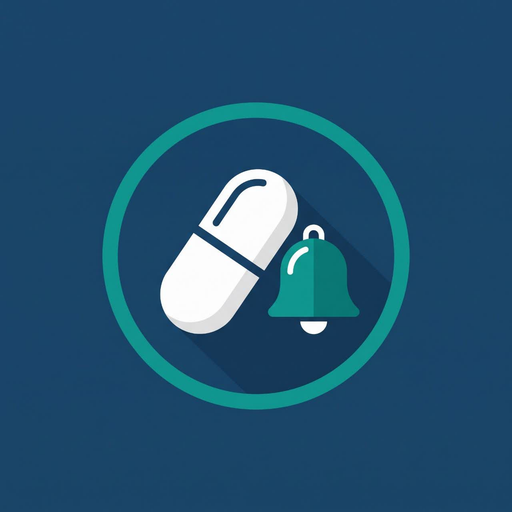
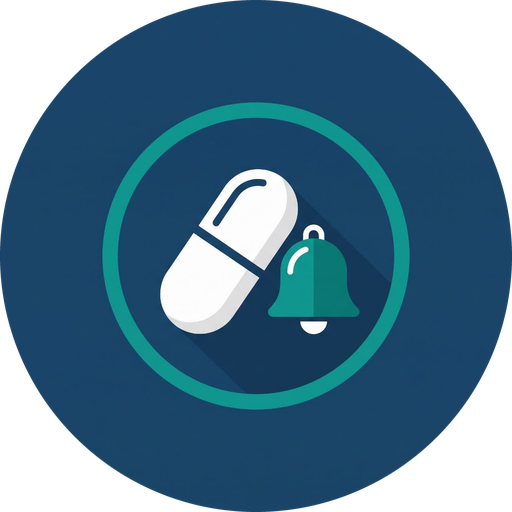
Add files via upload

diff --git a/android/assets/index.html b/android/assets/index.html
@@ -76,7 +76,7 @@ tr.s-taken td{background:#F2FBF5}tr.s-snoozed td{background:#FEFBE8}tr.s-skipped
 html,body{background:#EEF3F8}
 body{background:linear-gradient(180deg,#E3EEF5 0,#EEF3F8 260px);padding-bottom:calc(100px + env(safe-area-inset-bottom,0px))}
 header.top{background:linear-gradient(135deg,#153A5B 0%,#0F5C7A 65%,#008975 100%);border-radius:0 0 28px 28px;padding-bottom:18px;box-shadow:0 10px 26px rgba(21,58,91,.28)}
-header.top img{width:48px;height:48px;border-radius:15px;flex:none;box-shadow:0 0 0 2px rgba(255,255,255,.28)}
+header.top img{width:48px;height:48px;border-radius:50%;flex:none;box-shadow:0 0 0 2px rgba(255,255,255,.28)}
 header.top small{color:#CFF3EB}
 .chip{background:rgba(255,255,255,.16);border:1px solid rgba(255,255,255,.32);backdrop-filter:blur(6px)}
 main{padding:16px}
@@ -99,7 +99,7 @@ input:focus,select:focus,textarea:focus{border-color:var(--teal);box-shadow:0 0 
 .tabs button.on{background:#E1F5F0;border-top-color:transparent}
 .toast{bottom:calc(108px + env(safe-area-inset-bottom,0px));border-radius:16px;box-shadow:0 8px 24px rgba(0,0,0,.25)}
 .auth{background:linear-gradient(160deg,#153A5B 0%,#0F5C7A 70%,#008975 130%)}
-.auth .logo img{width:108px;height:108px;border-radius:30px;box-shadow:0 14px 34px rgba(0,0,0,.35)}
+.auth .logo img{width:108px;height:108px;border-radius:50%;box-shadow:0 14px 34px rgba(0,0,0,.35)}
 .auth .card{border-radius:26px;box-shadow:0 16px 40px rgba(0,0,0,.25)}
 .seg{border-radius:14px}.seg button.on{box-shadow:0 2px 8px rgba(0,0,0,.14)}
 @media print{header.top,.tabs,.noprint{display:none!important}body{background:#fff}.card{box-shadow:none;border:1px solid #ccc}}
@@ -110,12 +110,12 @@ input:focus,select:focus,textarea:focus{border-color:var(--teal);box-shadow:0 0 
 <div id="root"></div>
 <script>
 "use strict";
-const DRUGS = [{"group": "chronic", "name_fa": "متفورمین", "name_en": "Metformin", "atc": "A10BA02", "category": "کنترل قند خون (دیابت نوع ۲)", "dose": "۵۰۰ میلیگرم", "meal_relation": "همراه با غذا", "times": "08:00,20:00", "duration_days": 30}, {"group": "chronic", "name_fa": "گلیبنکلامید", "name_en": "Glibenclamide", "atc": "A10BB01", "category": "کنترل قند خون (دیابت نوع ۲)", "dose": "۵ میلیگرم", "meal_relation": "قبل از ناهار / شام", "times": "08:00", "duration_days": 30}, {"group": "chronic", "name_fa": "سیتاگلیپتین", "name_en": "Sitagliptin", "atc": "A10BH01", "category": "کنترل قند خون (دیابت نوع ۲)", "dose": "۵۰ میلیگرم", "meal_relation": "همراه با غذا", "times": "08:00", "duration_days": 30}, {"group": "chronic", "name_fa": "امپاگلیفلوزین", "name_en": "Empagliflozin", "atc": "A10BK03", "category": "کنترل قند خون (دیابت نوع ۲)", "dose": "۱۰ میلیگرم", "meal_relation": "همراه با غذا", "times": "08:00", "duration_days": 30}, {"group": "chronic", "name_fa": "لوزارتان", "name_en": "Losartan", "atc": "C09CA01", "category": "کنترل فشار خون", "dose": "۲۵ میلیگرم", "meal_relation": "بدون شرط خاص / موضعی", "times": "08:00", "duration_days": 30}, {"group": "chronic", "name_fa": "والسارتان", "name_en": "Valsartan", "atc": "C09CA03", "category": "کنترل فشار خون", "dose": "۸۰ میلیگرم", "meal_relation": "بدون شرط خاص / موضعی", "times": "08:00", "duration_days": 30}, {"group": "chronic", "name_fa": "آملودیپین", "name_en": "Amlodipine", "atc": "C08CA01", "category": "کنترل فشار خون", "dose": "۵ میلیگرم", "meal_relation": "بدون شرط خاص / موضعی", "times": "08:00", "duration_days": 30}, {"group": "chronic", "name_fa": "متوپرولول", "name_en": "Metoprolol", "atc": "C07AB02", "category": "کنترل فشار خون و ضربان قلب", "dose": "۵۰ میلیگرم", "meal_relation": "همراه با غذا", "times": "08:00,20:00", "duration_days": 30}, {"group": "chronic", "name_fa": "کاپتوپریل", "name_en": "Captopril", "atc": "C09AA01", "category": "کنترل فشار خون", "dose": "۲۵ میلیگرم", "meal_relation": "قبل از ناهار / شام", "times": "08:00,20:00", "duration_days": 30}, {"group": "chronic", "name_fa": "آتورواستاتین", "name_en": "Atorvastatin", "atc": "C10AA05", "category": "کنترل چربی خون (کلسترول)", "dose": "۲۰ میلیگرم", "meal_relation": "قبل از خواب شبانه", "times": "22:00", "duration_days": 30}, {"group": "chronic", "name_fa": "رزوواستاتین", "name_en": "Rosuvastatin", "atc": "C10AA07", "category": "کنترل چربی خون (کلسترول)", "dose": "۱۰ میلیگرم", "meal_relation": "قبل از خواب شبانه", "times": "22:00", "duration_days": 30}, {"group": "chronic", "name_fa": "آسپرین ۸۰", "name_en": "Aspirin 80 (ASA)", "atc": "B01AC06", "category": "پیشگیری قلبی-عروقی", "dose": "۸۰ میلیگرم", "meal_relation": "بعد از غذا", "times": "08:00", "duration_days": 30}, {"group": "chronic", "name_fa": "لووتیروکسین", "name_en": "Levothyroxine", "atc": "H03AA01", "category": "تیروئید", "dose": "۵۰ میکروگرم", "meal_relation": "ناشتا (۳۰ دقیقه قبل از صبحانه)", "times": "06:30", "duration_days": 30}, {"group": "sport", "name_fa": "پروتئین وی ایزوله", "name_en": "Whey Protein Isolate", "atc": "", "category": "مکمل ورزشی (پروتئین)", "dose": "۳۰ گرم (۱ اسکوپ)", "meal_relation": "بلافاصله بعد از ورزش (Post-Workout)", "times": "18:00", "duration_days": 30}, {"group": "sport", "name_fa": "کراتین مونوهیدرات", "name_en": "Creatine Monohydrate", "atc": "", "category": "مکمل ورزشی (قدرت)", "dose": "۵ گرم", "meal_relation": "همراه با غذا", "times": "14:00", "duration_days": 30}, {"group": "sport", "name_fa": "BCAA", "name_en": "BCAA", "atc": "", "category": "مکمل ورزشی (اسید آمینه)", "dose": "۵ گرم", "meal_relation": "قبل از شروع ورزش (Pre-Workout)", "times": "17:00", "duration_days": 30}, {"group": "sport", "name_fa": "ال-گلوتامین", "name_en": "L-Glutamine", "atc": "A16AA03", "category": "مکمل ورزشی (اسید آمینه)", "dose": "۵ گرم", "meal_relation": "بلافاصله بعد از ورزش (Post-Workout)", "times": "18:00", "duration_days": 30}, {"group": "sport", "name_fa": "کافئین ورزشی", "name_en": "Caffeine", "atc": "N06BC01", "category": "مکمل ورزشی (انرژی)", "dose": "۲۰۰ میلیگرم", "meal_relation": "قبل از شروع ورزش (Pre-Workout)", "times": "17:00", "duration_days": 30}, {"group": "sport", "name_fa": "مولتیویتامین ورزشی", "name_en": "Sports Multivitamin", "atc": "", "category": "مکمل ورزشی (ویتامین و مواد معدنی)", "dose": "۱ عدد", "meal_relation": "همراه با غذا", "times": "08:00", "duration_days": 30}, {"group": "sport", "name_fa": "منیزیم سیترات", "name_en": "Magnesium Citrate", "atc": "A12CC04", "category": "مکمل ورزشی (مواد معدنی)", "dose": "۲۰۰ میلیگرم", "meal_relation": "قبل از خواب شبانه", "times": "22:00", "duration_days": 30}, {"group": "sport", "name_fa": "امگا ۳", "name_en": "Omega-3", "atc": "C10AX06", "category": "مکمل ورزشی (چربی ضروری)", "dose": "۱ گرم", "meal_relation": "همراه با غذا", "times": "14:00", "duration_days": 30}, {"group": "prosthetic", "name_fa": "آموکسیسیلین", "name_en": "Amoxicillin 500 capsule", "atc": "J01CA04", "category": "مراقبت پروتز و دندانپزشکی (آنتیبیوتیک)", "dose": "۵۰۰ میلیگرم", "meal_relation": "بعد از غذا", "times": "08:00,14:00,20:00", "duration_days": 7}, {"group": "prosthetic", "name_fa": "دهانشویه کلرهگزیدین", "name_en": "Chlorhexidine mouthwash", "atc": "A01AB03", "category": "مراقبت پروتز و دندانپزشکی (دهانشویه)", "dose": "۱۵ میلیلیتر", "meal_relation": "بعد از غذا", "times": "08:00,20:00", "duration_days": 14}, {"group": "prosthetic", "name_fa": "ایبوپروفن ۴۰۰", "name_en": "Ibuprofen 400", "atc": "M01AE01", "category": "مراقبت پروتز و دندانپزشکی (مسکن)", "dose": "۴۰۰ میلیگرم", "meal_relation": "همراه با غذا", "times": "08:00,20:00", "duration_days": 3}, {"group": "prosthetic", "name_fa": "کپسول کلاژن", "name_en": "Collagen capsule", "atc": "", "category": "مراقبت پروتز و دندانپزشکی (ترمیم)", "dose": "۱ عدد", "meal_relation": "بعد از غذا", "times": "08:00", "duration_days": 30}, {"group": "prosthetic", "name_fa": "ویتامین C", "name_en": "Vitamin C", "atc": "A11GA01", "category": "مراقبت پروتز و دندانپزشکی (ویتامین)", "dose": "۵۰۰ میلیگرم", "meal_relation": "همراه با غذا", "times": "08:00", "duration_days": 30}, {"group": "beauty", "name_fa": "سرم ویتامین C", "name_en": "Vitamin C Serum", "atc": "", "category": "آرایشی و بهداشتی (پوست)", "dose": "۴ قطره", "meal_relation": "بدون شرط خاص / موضعی", "times": "08:00", "duration_days": 30}, {"group": "beauty", "name_fa": "کرم رتینول شبانه", "name_en": "Retinol Night Cream", "atc": "", "category": "آرایشی و بهداشتی (پوست)", "dose": "۱ نوبت", "meal_relation": "قبل از خواب شبانه", "times": "22:00", "duration_days": 30}, {"group": "beauty", "name_fa": "کپسول بیوتین و زینک", "name_en": "Biotin and Zinc capsule", "atc": "", "category": "آرایشی و بهداشتی (مو و ناخن)", "dose": "۱ کپسول", "meal_relation": "همراه با غذا", "times": "08:00", "duration_days": 30}, {"group": "beauty", "name_fa": "هیالورونیک اسید", "name_en": "Hyaluronic Acid", "atc": "", "category": "آرایشی و بهداشتی (پوست)", "dose": "۱ عدد", "meal_relation": "بدون شرط خاص / موضعی", "times": "08:00", "duration_days": 30}];
+const DRUGS = [{"group": "chronic", "name_fa": "متفورمین", "name_en": "Metformin", "atc": "A10BA02", "category": "کنترل قند خون (دیابت نوع ۲)", "dose": "۵۰۰ میلیگرم", "meal_relation": "همراه با غذا", "times": "08:00,20:00", "duration_days": 30}, {"group": "chronic", "name_fa": "گلیبنکلامید", "name_en": "Glibenclamide", "atc": "A10BB01", "category": "کنترل قند خون (دیابت نوع ۲)", "dose": "۵ میلیگرم", "meal_relation": "قبل از ناهار / شام", "times": "08:00", "duration_days": 30}, {"group": "chronic", "name_fa": "سیتاگلیپتین", "name_en": "Sitagliptin", "atc": "A10BH01", "category": "کنترل قند خون (دیابت نوع ۲)", "dose": "۵۰ میلیگرم", "meal_relation": "همراه با غذا", "times": "08:00", "duration_days": 30}, {"group": "chronic", "name_fa": "امپاگلیفلوزین", "name_en": "Empagliflozin", "atc": "A10BK03", "category": "کنترل قند خون (دیابت نوع ۲)", "dose": "۱۰ میلیگرم", "meal_relation": "همراه با غذا", "times": "08:00", "duration_days": 30}, {"group": "chronic", "name_fa": "لوزارتان", "name_en": "Losartan", "atc": "C09CA01", "category": "کنترل فشار خون", "dose": "۲۵ میلیگرم", "meal_relation": "بدون شرط خاص / موضعی", "times": "08:00", "duration_days": 30}, {"group": "chronic", "name_fa": "والسارتان", "name_en": "Valsartan", "atc": "C09CA03", "category": "کنترل فشار خون", "dose": "۸۰ میلیگرم", "meal_relation": "بدون شرط خاص / موضعی", "times": "08:00", "duration_days": 30}, {"group": "chronic", "name_fa": "آملودیپین", "name_en": "Amlodipine", "atc": "C08CA01", "category": "کنترل فشار خون", "dose": "۵ میلیگرم", "meal_relation": "بدون شرط خاص / موضعی", "times": "08:00", "duration_days": 30}, {"group": "chronic", "name_fa": "متوپرولول", "name_en": "Metoprolol", "atc": "C07AB02", "category": "کنترل فشار خون و ضربان قلب", "dose": "۵۰ میلیگرم", "meal_relation": "همراه با غذا", "times": "08:00,20:00", "duration_days": 30}, {"group": "chronic", "name_fa": "کاپتوپریل", "name_en": "Captopril", "atc": "C09AA01", "category": "کنترل فشار خون", "dose": "۲۵ میلیگرم", "meal_relation": "قبل از ناهار / شام", "times": "08:00,20:00", "duration_days": 30}, {"group": "chronic", "name_fa": "آتورواستاتین", "name_en": "Atorvastatin", "atc": "C10AA05", "category": "کنترل چربی خون (کلسترول)", "dose": "۲۰ میلیگرم", "meal_relation": "قبل از خواب شبانه", "times": "22:00", "duration_days": 30}, {"group": "chronic", "name_fa": "رزوواستاتین", "name_en": "Rosuvastatin", "atc": "C10AA07", "category": "کنترل چربی خون (کلسترول)", "dose": "۱۰ میلیگرم", "meal_relation": "قبل از خواب شبانه", "times": "22:00", "duration_days": 30}, {"group": "chronic", "name_fa": "آسپرین ۸۰", "name_en": "Aspirin 80 (ASA)", "atc": "B01AC06", "category": "پیشگیری قلبی-عروقی", "dose": "۸۰ میلیگرم", "meal_relation": "بعد از غذا", "times": "08:00", "duration_days": 30}, {"group": "chronic", "name_fa": "لووتیروکسین", "name_en": "Levothyroxine", "atc": "H03AA01", "category": "تیروئید", "dose": "۵۰ میکروگرم", "meal_relation": "ناشتا (۳۰ دقیقه قبل از صبحانه)", "times": "06:30", "duration_days": 30}, {"group": "sport", "name_fa": "پروتئین وی ایزوله", "name_en": "Whey Protein Isolate", "atc": "", "category": "ورزش و تندرستی (پروتئین)", "dose": "۳۰ گرم (۱ اسکوپ)", "meal_relation": "بلافاصله بعد از ورزش (Post-Workout)", "times": "18:00", "duration_days": 30}, {"group": "sport", "name_fa": "کراتین مونوهیدرات", "name_en": "Creatine Monohydrate", "atc": "", "category": "ورزش و تندرستی (قدرت)", "dose": "۵ گرم", "meal_relation": "همراه با غذا", "times": "14:00", "duration_days": 30}, {"group": "sport", "name_fa": "BCAA", "name_en": "BCAA", "atc": "", "category": "ورزش و تندرستی (اسید آمینه)", "dose": "۵ گرم", "meal_relation": "قبل از شروع ورزش (Pre-Workout)", "times": "17:00", "duration_days": 30}, {"group": "sport", "name_fa": "ال-گلوتامین", "name_en": "L-Glutamine", "atc": "A16AA03", "category": "ورزش و تندرستی (اسید آمینه)", "dose": "۵ گرم", "meal_relation": "بلافاصله بعد از ورزش (Post-Workout)", "times": "18:00", "duration_days": 30}, {"group": "sport", "name_fa": "کافئین ورزشی", "name_en": "Caffeine", "atc": "N06BC01", "category": "ورزش و تندرستی (انرژی)", "dose": "۲۰۰ میلیگرم", "meal_relation": "قبل از شروع ورزش (Pre-Workout)", "times": "17:00", "duration_days": 30}, {"group": "sport", "name_fa": "مولتیویتامین ورزشی", "name_en": "Sports Multivitamin", "atc": "", "category": "ورزش و تندرستی (ویتامین و مواد معدنی)", "dose": "۱ عدد", "meal_relation": "همراه با غذا", "times": "08:00", "duration_days": 30}, {"group": "sport", "name_fa": "منیزیم سیترات", "name_en": "Magnesium Citrate", "atc": "A12CC04", "category": "ورزش و تندرستی (مواد معدنی)", "dose": "۲۰۰ میلیگرم", "meal_relation": "قبل از خواب شبانه", "times": "22:00", "duration_days": 30}, {"group": "sport", "name_fa": "امگا ۳", "name_en": "Omega-3", "atc": "C10AX06", "category": "ورزش و تندرستی (چربی ضروری)", "dose": "۱ گرم", "meal_relation": "همراه با غذا", "times": "14:00", "duration_days": 30}, {"group": "sport", "name_fa": "ویتامین C جوشان", "name_en": "Vitamin C Effervescent", "atc": "A11GA01", "category": "ورزش و تندرستی (ویتامین جوشان)", "dose": "۱ قرص جوشان در یک لیوان آب", "meal_relation": "بعد از غذا", "times": "08:00", "duration_days": 30}, {"group": "sport", "name_fa": "ویتامین D3", "name_en": "Vitamin D3", "atc": "A11CC05", "category": "ورزش و تندرستی (ویتامین)", "dose": "طبق برچسب محصول", "meal_relation": "همراه با غذا", "times": "08:00", "duration_days": 30}, {"group": "sport", "name_fa": "کلسیم و ویتامین D جوشان", "name_en": "Calcium + Vitamin D Effervescent", "atc": "A12AX", "category": "ورزش و تندرستی (مواد معدنی جوشان)", "dose": "۱ قرص جوشان در یک لیوان آب", "meal_relation": "بعد از غذا", "times": "20:00", "duration_days": 30}, {"group": "sport", "name_fa": "الکترولیت جوشان ورزشی", "name_en": "Electrolyte Effervescent", "atc": "", "category": "ورزش و تندرستی (آبرسانی)", "dose": "۱ قرص جوشان در یک بطری آب", "meal_relation": "بلافاصله بعد از ورزش (Post-Workout)", "times": "18:00", "duration_days": 30}, {"group": "sport", "name_fa": "پروتئین کازئین", "name_en": "Casein Protein", "atc": "", "category": "ورزش و تندرستی (پروتئین)", "dose": "۱ پیمانه", "meal_relation": "قبل از خواب شبانه", "times": "22:00", "duration_days": 30}, {"group": "beauty", "name_fa": "سرم ویتامین C", "name_en": "Vitamin C Serum", "atc": "", "category": "آرایشی و بهداشتی (پوست)", "dose": "۴ قطره", "meal_relation": "بدون شرط خاص / موضعی", "times": "08:00", "duration_days": 30}, {"group": "beauty", "name_fa": "کرم رتینول شبانه", "name_en": "Retinol Night Cream", "atc": "", "category": "آرایشی و بهداشتی (پوست)", "dose": "۱ نوبت", "meal_relation": "قبل از خواب شبانه", "times": "22:00", "duration_days": 30}, {"group": "beauty", "name_fa": "کپسول بیوتین و زینک", "name_en": "Biotin and Zinc capsule", "atc": "", "category": "آرایشی و بهداشتی (مو و ناخن)", "dose": "۱ کپسول", "meal_relation": "همراه با غذا", "times": "08:00", "duration_days": 30}, {"group": "beauty", "name_fa": "هیالورونیک اسید", "name_en": "Hyaluronic Acid", "atc": "", "category": "آرایشی و بهداشتی (پوست)", "dose": "۱ عدد", "meal_relation": "بدون شرط خاص / موضعی", "times": "08:00", "duration_days": 30}];
 const CFG = {"bot_username": ""};
 const MEALS = ["ناشتا (۳۰ دقیقه قبل از صبحانه)","قبل از ناهار / شام","همراه با غذا","بعد از غذا","قبل از شروع ورزش (Pre-Workout)","بلافاصله بعد از ورزش (Post-Workout)","قبل از خواب شبانه","بدون شرط خاص / موضعی"];
-const GROUPS = {chronic:"بیماریهای مزمن",sport:"ورزشی و بدنسازی",prosthetic:"پروتز و دندانپزشکی",beauty:"آرایشی و بهداشتی"};
-const PROFILES = {general:"بیمار عمومی",athlete:"ورزشکار",prosthetic_beauty:"مراقبت پروتز و زیبایی"};
-const PROFILE_GROUP = {general:"chronic",athlete:"sport",prosthetic_beauty:"prosthetic"};
+const GROUPS = {chronic:"بیماریهای مزمن",sport:"ورزش و تندرستی",beauty:"آرایشی و بهداشتی"};
+const PROFILES = {general:"بیمار عمومی",athlete:"ورزشکار",prosthetic_beauty:"مراقبت/بهداشتی/زیبایی"};
+const PROFILE_GROUP = {general:"chronic",athlete:"sport",prosthetic_beauty:"beauty"};
 const ST_TAKEN="✅ مصرف شد (بهموقع)", ST_SNOOZE="⏳ تعویق (۱۰ دقیقه بعد)", ST_SKIP="❌ مصرف نشد (نخوردم)";
 const DEFAULT_TIMES = {1:["08:00"],2:["08:00","20:00"],3:["08:00","14:00","20:00"],4:["07:00","12:00","17:00","22:00"]};
[1 lines of base64/hex data omitted]
@@ -247,7 +247,7 @@ function seedDemo() {
   const meds = [["متفورمین","کنترل قند خون (دیابت نوع ۲)","۵۰۰ میلیگرم","14:00,20:00","همراه با غذا","chronic"],
     ["لوزارتان","کنترل فشار خون","۲۵ میلیگرم","08:00,20:00","بدون شرط خاص / موضعی","chronic"],
     ["آتورواستاتین","کنترل چربی خون (کلسترول)","۲۰ میلیگرم","22:00","قبل از خواب شبانه","chronic"],
-    ["کراتین مونوهیدرات","مکمل ورزشی (قدرت)","۵ گرم","17:00","بلافاصله بعد از ورزش (Post-Workout)","sport"]];
+    ["کراتین مونوهیدرات","ورزش و تندرستی (قدرت)","۵ گرم","17:00","بلافاصله بعد از ورزش (Post-Workout)","sport"]];
   if (!st.meds.some((m) => !m.deleted)) meds.forEach((m) => addMed({name: m[0], drug_category: m[1], dose: m[2], times_csv: m[3], meal_relation: m[4], group: m[5]}));
   for (let back = 6; back >= 0; back--) {
     const d = new Date(Date.now() - back * 86400000), t = tehran(d);
@@ -280,7 +280,7 @@ function logout() { st.token = null; st.user = null; st.guest = false; st.meds =
 
 function viewAuth() {
   const reg = ui.authMode === "register", b = base();
-  return `<div class="auth"><div class="logo">${LOGO}</div><h1>دارویار</h1><p class="s">دارو را بهموقع، فراموشی را هیچوقت</p>
+  return `<div class="auth"><div class="logo">${LOGO}</div><h1>دارویار</h1><p class="s">دارویار، یادآور داروی تو…</p>
   <div class="card"><div class="seg"><button class="${reg ? "" : "on"}" onclick="ui.authMode='login';ui.err='';render()">ورود</button><button class="${reg ? "on" : ""}" onclick="ui.authMode='register';ui.err='';render()">ثبتنام</button></div>
   ${reg ? `<label for="adn">نام نمایشی (اختیاری)</label><input id="adn" autocomplete="name">` : ""}
   <label for="au">نام کاربری یا شماره موبایل</label><input id="au" autocomplete="username" inputmode="text" dir="ltr" style="text-align:right">
@@ -395,7 +395,7 @@ function render() {
   const root = $("#root");
   if (!st.user) { root.innerHTML = viewAuth(); return; }
   const tabs = [["today", "🏠", "امروز"], ["add", "➕", "ثبت دارو"], ["record", "📋", "پرونده"]];
-  root.innerHTML = `<header class="top">${LOGO}<div><h1>دارویار</h1><small>دارو را بهموقع، فراموشی را هیچوقت</small></div>
+  root.innerHTML = `<header class="top">${LOGO}<div><h1>دارویار</h1><small>دارویار، یادآور داروی تو…</small></div>
    <button class="chip" onclick="ui.sheet=true;render()">👤 ${esc((st.user.display_name || st.user.username).slice(0, 12))}</button></header>
    <main>${ui.tab === "today" ? viewToday() : ui.tab === "add" ? viewAdd() : viewRecord()}<p class="disc">دارویار فقط یادآور است و توصیهی پزشکی نمیدهد. برای هر سؤال دربارهی دارو با پزشک یا داروساز صحبت کنید.</p></main>
    <nav class="tabs">${tabs.map((t) => `<button class="${ui.tab === t[0] ? "on" : ""}" onclick="ui.tab='${t[0]}';window.scrollTo(0,0);render()"><span class="ic">${t[1]}</span>${t[2]}</button>`).join("")}</nav>${ui.sheet ? viewSheet() : ""}`;

diff --git a/web/index.html b/web/index.html
@@ -76,7 +76,7 @@ tr.s-taken td{background:#F2FBF5}tr.s-snoozed td{background:#FEFBE8}tr.s-skipped
 html,body{background:#EEF3F8}
 body{background:linear-gradient(180deg,#E3EEF5 0,#EEF3F8 260px);padding-bottom:calc(100px + env(safe-area-inset-bottom,0px))}
 header.top{background:linear-gradient(135deg,#153A5B 0%,#0F5C7A 65%,#008975 100%);border-radius:0 0 28px 28px;padding-bottom:18px;box-shadow:0 10px 26px rgba(21,58,91,.28)}
-header.top img{width:48px;height:48px;border-radius:15px;flex:none;box-shadow:0 0 0 2px rgba(255,255,255,.28)}
+header.top img{width:48px;height:48px;border-radius:50%;flex:none;box-shadow:0 0 0 2px rgba(255,255,255,.28)}
 header.top small{color:#CFF3EB}
 .chip{background:rgba(255,255,255,.16);border:1px solid rgba(255,255,255,.32);backdrop-filter:blur(6px)}
 main{padding:16px}
@@ -99,7 +99,7 @@ input:focus,select:focus,textarea:focus{border-color:var(--teal);box-shadow:0 0 
 .tabs button.on{background:#E1F5F0;border-top-color:transparent}
 .toast{bottom:calc(108px + env(safe-area-inset-bottom,0px));border-radius:16px;box-shadow:0 8px 24px rgba(0,0,0,.25)}
 .auth{background:linear-gradient(160deg,#153A5B 0%,#0F5C7A 70%,#008975 130%)}
-.auth .logo img{width:108px;height:108px;border-radius:30px;box-shadow:0 14px 34px rgba(0,0,0,.35)}
+.auth .logo img{width:108px;height:108px;border-radius:50%;box-shadow:0 14px 34px rgba(0,0,0,.35)}
 .auth .card{border-radius:26px;box-shadow:0 16px 40px rgba(0,0,0,.25)}
 .seg{border-radius:14px}.seg button.on{box-shadow:0 2px 8px rgba(0,0,0,.14)}
 @media print{header.top,.tabs,.noprint{display:none!important}body{background:#fff}.card{box-shadow:none;border:1px solid #ccc}}
@@ -113,9 +113,9 @@ input:focus,select:focus,textarea:focus{border-color:var(--teal);box-shadow:0 0 
 const DRUGS = __DRUGS_JSON__;
 const CFG = __CONFIG_JSON__;
 const MEALS = ["ناشتا (۳۰ دقیقه قبل از صبحانه)","قبل از ناهار / شام","همراه با غذا","بعد از غذا","قبل از شروع ورزش (Pre-Workout)","بلافاصله بعد از ورزش (Post-Workout)","قبل از خواب شبانه","بدون شرط خاص / موضعی"];
-const GROUPS = {chronic:"بیماریهای مزمن",sport:"ورزشی و بدنسازی",prosthetic:"پروتز و دندانپزشکی",beauty:"آرایشی و بهداشتی"};
-const PROFILES = {general:"بیمار عمومی",athlete:"ورزشکار",prosthetic_beauty:"مراقبت پروتز و زیبایی"};
-const PROFILE_GROUP = {general:"chronic",athlete:"sport",prosthetic_beauty:"prosthetic"};
+const GROUPS = {chronic:"بیماریهای مزمن",sport:"ورزش و تندرستی",beauty:"آرایشی و بهداشتی"};
+const PROFILES = {general:"بیمار عمومی",athlete:"ورزشکار",prosthetic_beauty:"مراقبت/بهداشتی/زیبایی"};
+const PROFILE_GROUP = {general:"chronic",athlete:"sport",prosthetic_beauty:"beauty"};
 const ST_TAKEN="✅ مصرف شد (بهموقع)", ST_SNOOZE="⏳ تعویق (۱۰ دقیقه بعد)", ST_SKIP="❌ مصرف نشد (نخوردم)";
 const DEFAULT_TIMES = {1:["08:00"],2:["08:00","20:00"],3:["08:00","14:00","20:00"],4:["07:00","12:00","17:00","22:00"]};
[1 lines of base64/hex data omitted]
@@ -247,7 +247,7 @@ function seedDemo() {
   const meds = [["متفورمین","کنترل قند خون (دیابت نوع ۲)","۵۰۰ میلیگرم","14:00,20:00","همراه با غذا","chronic"],
     ["لوزارتان","کنترل فشار خون","۲۵ میلیگرم","08:00,20:00","بدون شرط خاص / موضعی","chronic"],
     ["آتورواستاتین","کنترل چربی خون (کلسترول)","۲۰ میلیگرم","22:00","قبل از خواب شبانه","chronic"],
-    ["کراتین مونوهیدرات","مکمل ورزشی (قدرت)","۵ گرم","17:00","بلافاصله بعد از ورزش (Post-Workout)","sport"]];
+    ["کراتین مونوهیدرات","ورزش و تندرستی (قدرت)","۵ گرم","17:00","بلافاصله بعد از ورزش (Post-Workout)","sport"]];
   if (!st.meds.some((m) => !m.deleted)) meds.forEach((m) => addMed({name: m[0], drug_category: m[1], dose: m[2], times_csv: m[3], meal_relation: m[4], group: m[5]}));
   for (let back = 6; back >= 0; back--) {
     const d = new Date(Date.now() - back * 86400000), t = tehran(d);
@@ -280,7 +280,7 @@ function logout() { st.token = null; st.user = null; st.guest = false; st.meds =
 
 function viewAuth() {
   const reg = ui.authMode === "register", b = base();
-  return `<div class="auth"><div class="logo">${LOGO}</div><h1>دارویار</h1><p class="s">دارو را بهموقع، فراموشی را هیچوقت</p>
+  return `<div class="auth"><div class="logo">${LOGO}</div><h1>دارویار</h1><p class="s">دارویار، یادآور داروی تو…</p>
   <div class="card"><div class="seg"><button class="${reg ? "" : "on"}" onclick="ui.authMode='login';ui.err='';render()">ورود</button><button class="${reg ? "on" : ""}" onclick="ui.authMode='register';ui.err='';render()">ثبتنام</button></div>
   ${reg ? `<label for="adn">نام نمایشی (اختیاری)</label><input id="adn" autocomplete="name">` : ""}
   <label for="au">نام کاربری یا شماره موبایل</label><input id="au" autocomplete="username" inputmode="text" dir="ltr" style="text-align:right">
@@ -395,7 +395,7 @@ function render() {
   const root = $("#root");
   if (!st.user) { root.innerHTML = viewAuth(); return; }
   const tabs = [["today", "🏠", "امروز"], ["add", "➕", "ثبت دارو"], ["record", "📋", "پرونده"]];
-  root.innerHTML = `<header class="top">${LOGO}<div><h1>دارویار</h1><small>دارو را بهموقع، فراموشی را هیچوقت</small></div>
+  root.innerHTML = `<header class="top">${LOGO}<div><h1>دارویار</h1><small>دارویار، یادآور داروی تو…</small></div>
    <button class="chip" onclick="ui.sheet=true;render()">👤 ${esc((st.user.display_name || st.user.username).slice(0, 12))}</button></header>
    <main>${ui.tab === "today" ? viewToday() : ui.tab === "add" ? viewAdd() : viewRecord()}<p class="disc">دارویار فقط یادآور است و توصیهی پزشکی نمیدهد. برای هر سؤال دربارهی دارو با پزشک یا داروساز صحبت کنید.</p></main>
    <nav class="tabs">${tabs.map((t) => `<button class="${ui.tab === t[0] ? "on" : ""}" onclick="ui.tab='${t[0]}';window.scrollTo(0,0);render()"><span class="ic">${t[1]}</span>${t[2]}</button>`).join("")}</nav>${ui.sheet ? viewSheet() : ""}`;

diff --git a/tools/make_icon.py b/tools/make_icon.py
@@ -42,8 +42,19 @@ def load_logo():
     return draw_logo()
 
 
+def make_round(img):
+    """برش دایرهای با گوشههای شفاف (آیکون گرد)"""
+    img = img.convert("RGBA")
+    big = 4
+    mask = Image.new("L", (img.width * big, img.height * big), 0)
+    ImageDraw.Draw(mask).ellipse((0, 0, img.width * big - 1, img.height * big - 1), fill=255)
+    mask = mask.resize(img.size, Image.LANCZOS)
+    img.putalpha(mask)
+    return img
+
+
 def main():
-    logo = load_logo()
+    logo = make_round(load_logo())
     os.makedirs(os.path.join(ROOT, "android", "assets"), exist_ok=True)
     logo.resize((512, 512), Image.LANCZOS).save(os.path.join(ROOT, "android", "assets", "icon.png"))
     for folder, px in (("mdpi", 48), ("hdpi", 72), ("xhdpi", 96), ("xxhdpi", 144), ("xxxhdpi", 192)):

diff --git a/tests/test_sprint2_api.py b/tests/test_sprint2_api.py
@@ -43,7 +43,7 @@ def test_health_index_drugs(api):
     s, html = api("/")
     assert s == 200 and "دارویار" in html and "__DRUGS_JSON__" not in html and "متفورمین" in html
     s, j = api("/api/drugs")
-    assert len(j["drugs"]) >= 30 and len(j["groups"]) == 4
+    assert len(j["drugs"]) >= 30 and len(j["groups"]) == 3
 
 
 def test_register_login_errors(api):
